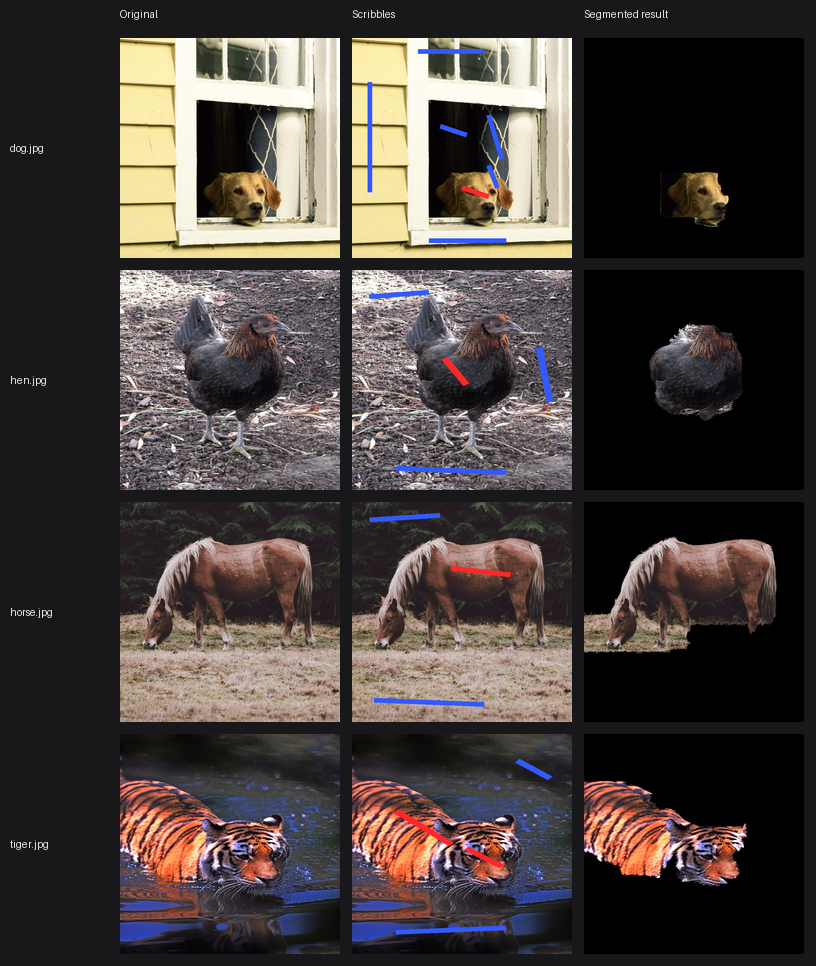
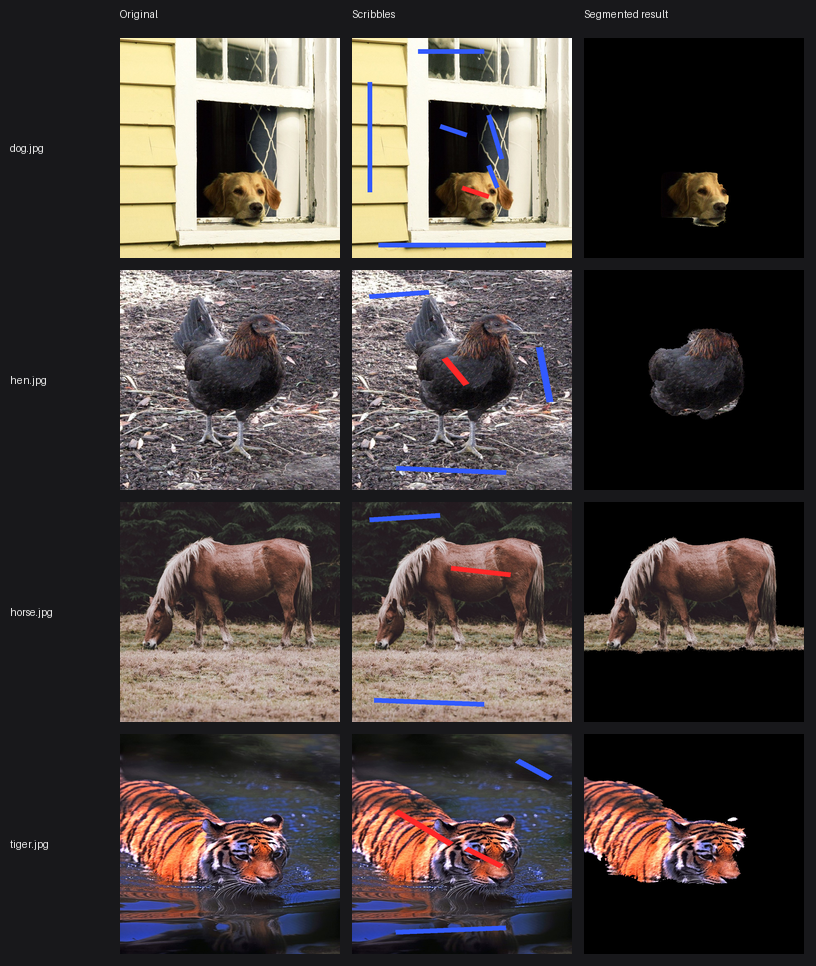
Cap the cut grid at 56px to bring the worst case under 2s
Solve time dominates end to end (build and refine are ~0.01s), and the number
of augmenting paths depends on the image rather than its size: hen.jpg, a dark
bird on dark soil, ran ~2.5s at 64px while easier photos sat near 0.8s. At 56px
the slowest case is 1.25s. Boundary detail is restored by the refinement pass,
so the visible cost is small; demo images regenerated at the new default.

diff --git a/segmentation/segmenter.py b/segmentation/segmenter.py
@@ -50,7 +50,16 @@ from maxflow.grid_maxflow import solve_grid_min_cut
 # Longest side of the grid the min-cut is actually solved on. Chosen from
 # measured solver cost (see the module docstring): large enough to capture
 # object shape, small enough to stay interactive.
-DEFAULT_PROCESSING_MAX_DIM = 64
+#
+# The number of augmenting paths depends on the image, not just its size, so
+# this is set by the *worst* case rather than the average. benchmarks/ measures
+# hen.jpg -- a dark bird on dark soil, so foreground and background overlap
+# heavily in intensity -- at ~2.5s on a 64px grid but ~1.3s at 56px, while the
+# easier photos sit near 0.8s. 56 keeps the slowest case comfortably inside the
+# 2s budget. Refinement restores boundary detail afterwards, so the cost of the
+# smaller grid is much lower than it sounds; PROCESSING_MAX_DIM can be raised
+# per call, and `fast` mode (Boykov-Kolmogorov) makes much larger grids viable.
+DEFAULT_PROCESSING_MAX_DIM = 56
 
 
 def segment(
